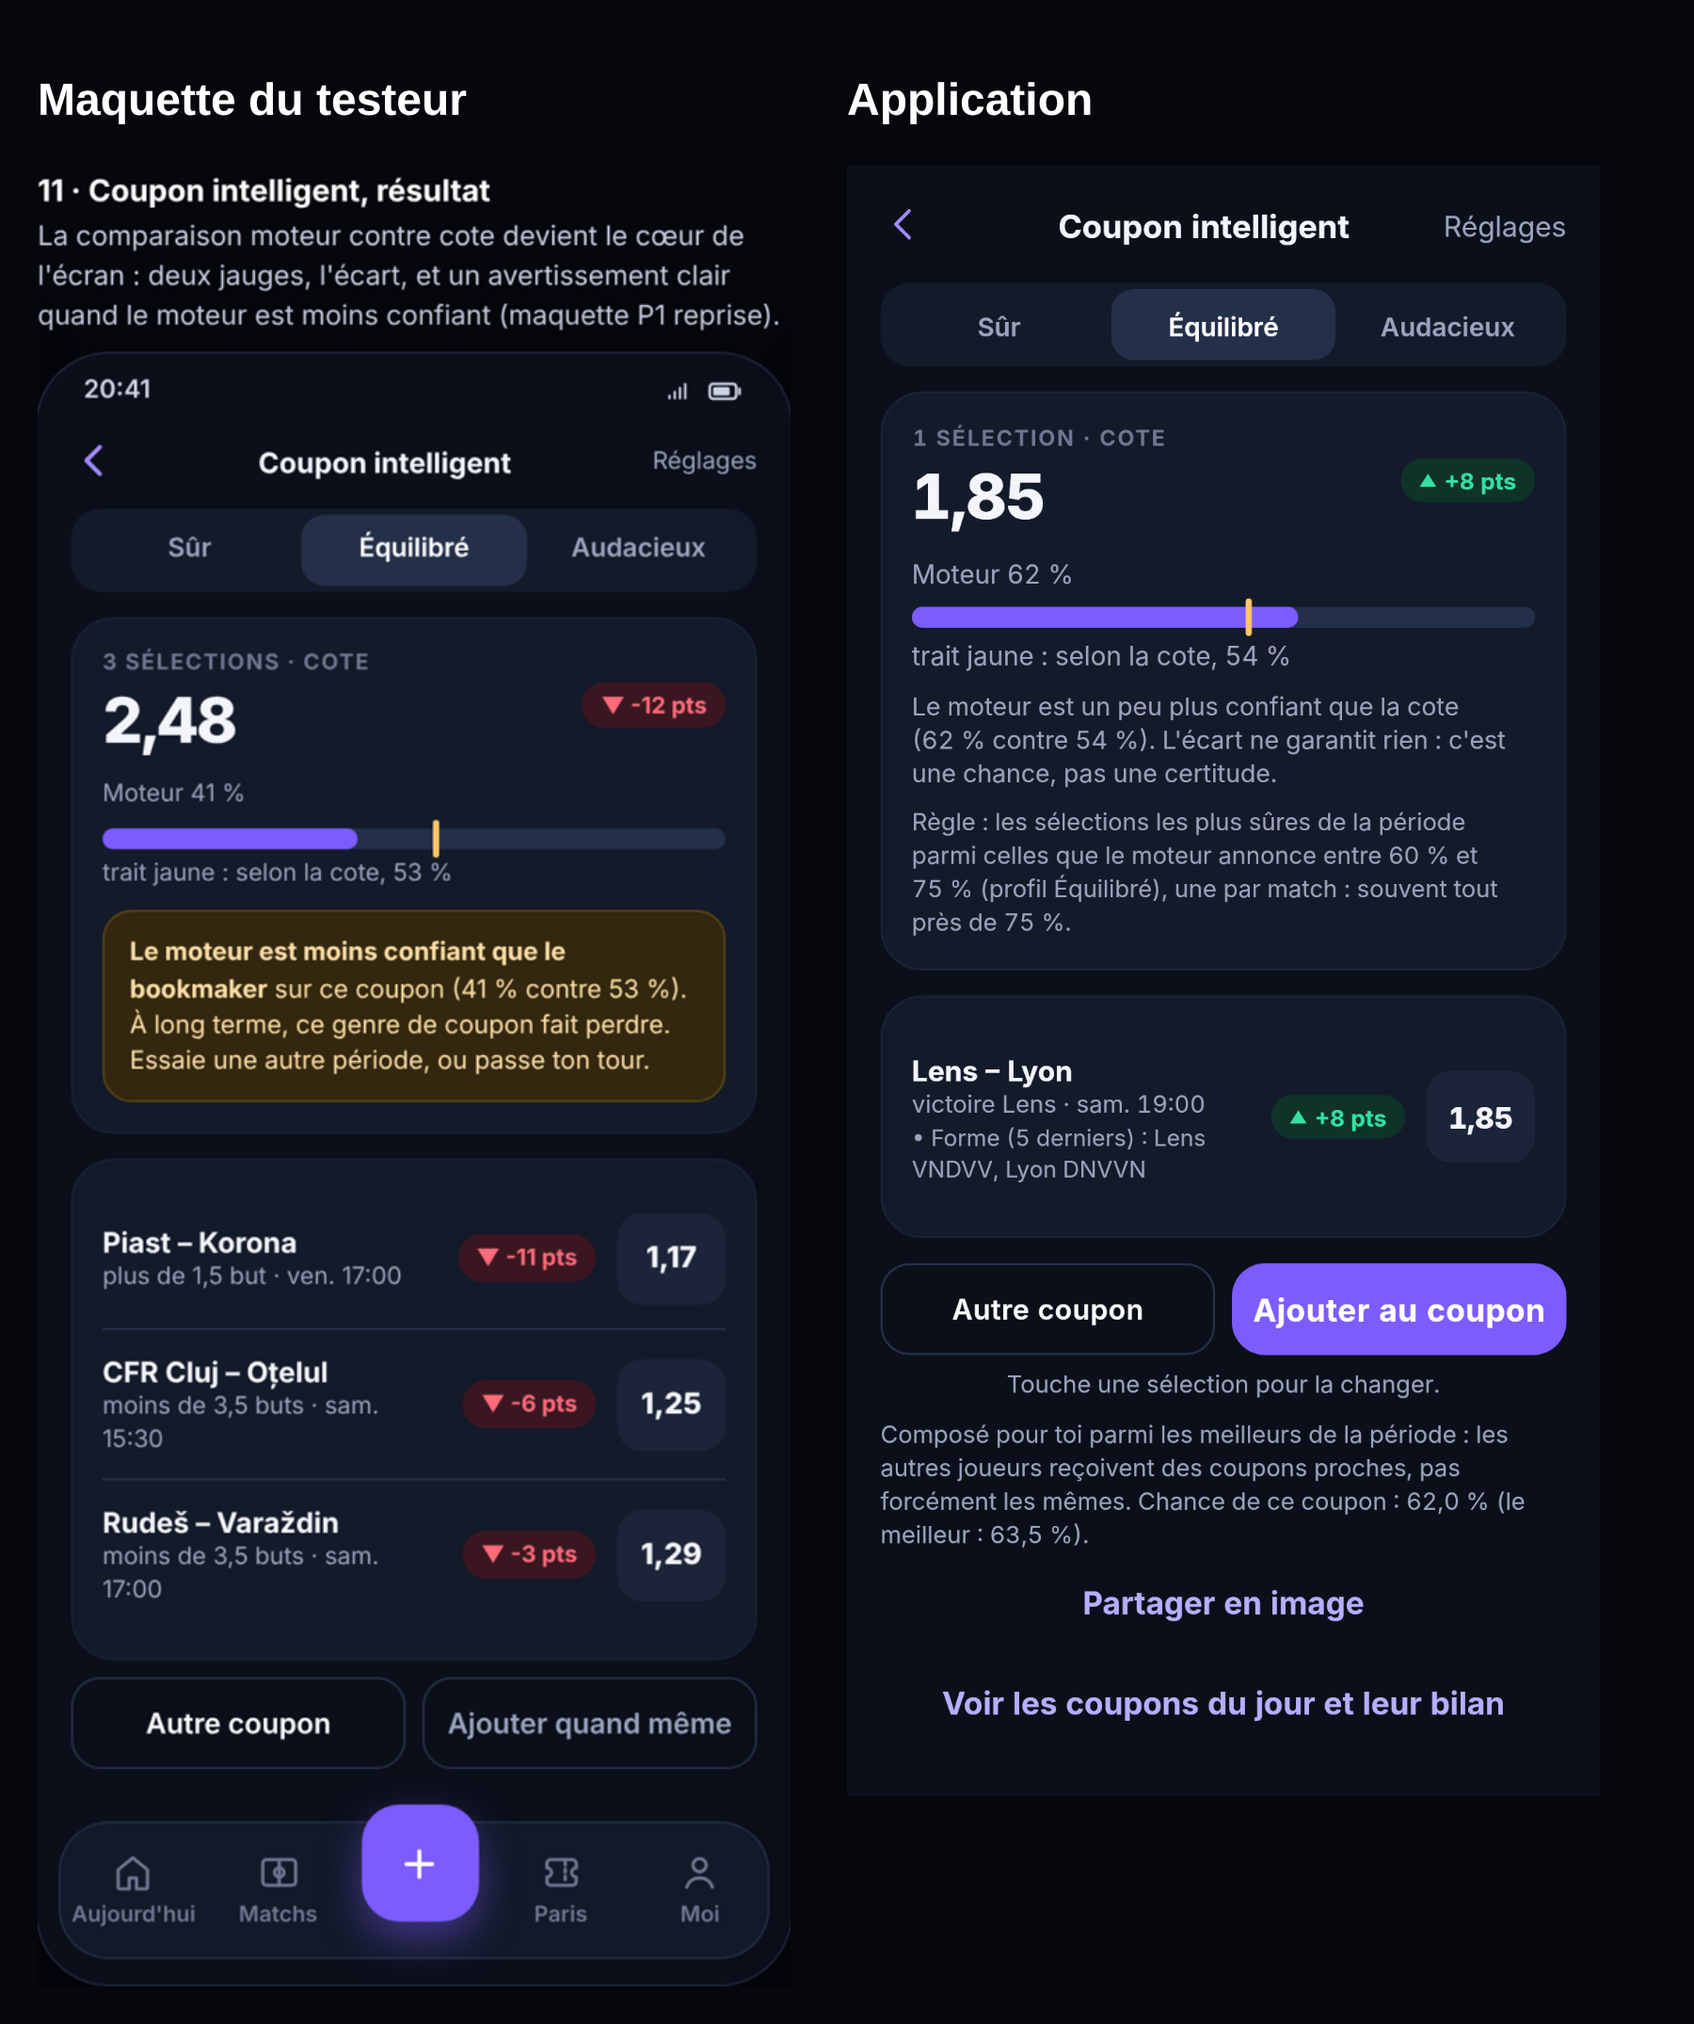
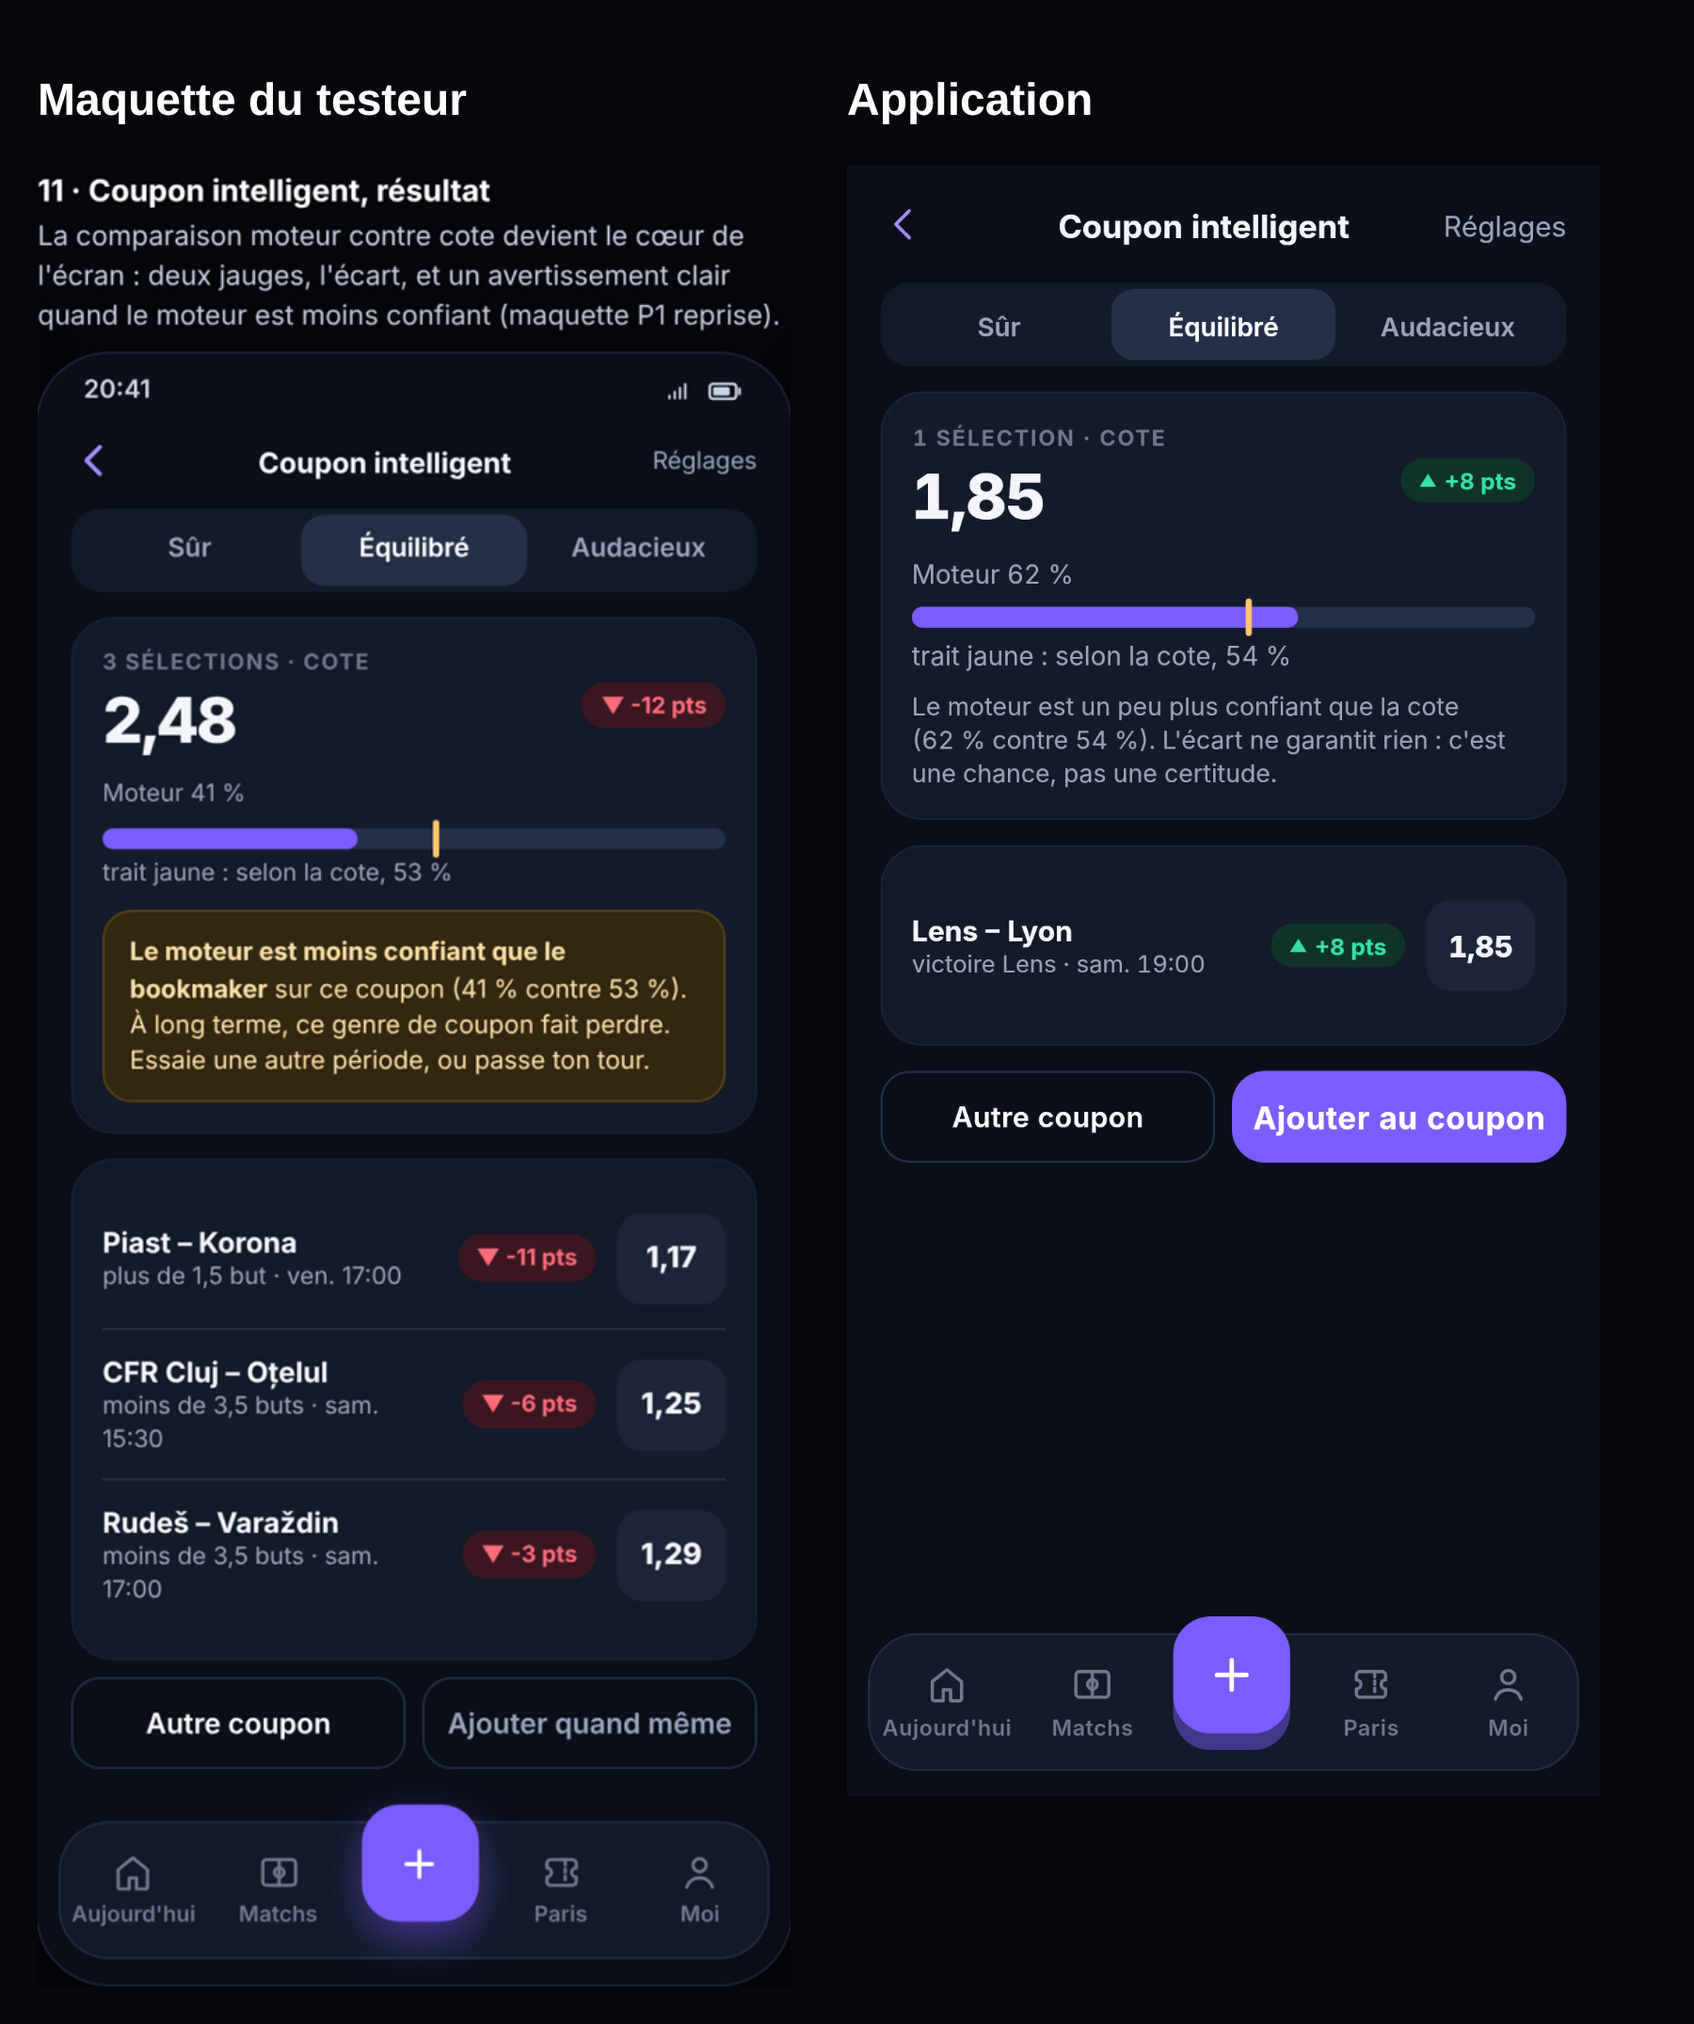
Relecture 06, 10, 11 : « +86 › » (nombre de cotes du match, nouveau GET /offers/counts), heure seule sur les cartes, Coupon intelligent sans textes en trop
Claude-Session: https://claude.ai/code/session_01D1BNdygW426Eq3G75yyrXh

diff --git a/app/lib/screens/smart_coupon_screen.dart b/app/lib/screens/smart_coupon_screen.dart
@@ -928,7 +928,9 @@ class _SmartCouponScreenState extends State<SmartCouponScreen> {
                     style: V.t(12, color: const Color(0xFFFFE0A8)).copyWith(height: 1.45),
                   ),
                 ),
-              if (_rule(result!) case final r?) ...[const SizedBox(height: 8), Text(r, style: V.mu_())],
+              // Grosse cote (hors maquette 11) : la règle du coupon reste dite.
+              if (_big)
+                if (_rule(result!) case final r?) ...[const SizedBox(height: 8), Text(r, style: V.mu_())],
               // Grosse cote : la vérité sur la chance, et le risque des marges multipliées.
               if (_big && p > 0) ...[
                 const SizedBox(height: 8),
@@ -976,9 +978,6 @@ class _SmartCouponScreenState extends State<SmartCouponScreen> {
                               ].join(' · '),
                               style: V.mu_(),
                             ),
-                            // Pourquoi ce choix, en une ligne par raison (forme, absences…).
-                            for (final r in ((s['reasons'] as List?) ?? const []).cast<String>())
-                              Text('• $r', style: V.mu_(11)),
                           ],
                         ),
                       ),
@@ -1020,25 +1019,25 @@ class _SmartCouponScreenState extends State<SmartCouponScreen> {
           ),
         ),
         if (composing) const SlowWait(),
-        const SizedBox(height: 6),
-        Text('Touche une sélection pour la changer.', textAlign: TextAlign.center, style: V.mu_()),
-        const SizedBox(height: 8),
-        // Proposition du 07/11/2026 : pas le même coupon pour tous ; le joueur le sait.
-        Text(
-          [
-            'Composé pour toi parmi les meilleurs de la période : les autres joueurs reçoivent des '
-                'coupons proches, pas forcément les mêmes.',
-            if (coupon['best_probability'] case final num b when b - p >= 0.0005)
-              'Chance de ce coupon : ${percent(p, decimals: 1)} (le meilleur : ${percent(b.toDouble(), decimals: 1)}).',
-          ].join(' '),
-          style: V.mu_(),
-        ),
-        Center(
-          child: TextButton(
-            onPressed: () => shareCoupon(context, sels, coupon, label, big: _big),
-            child: const Text('Partager en image'),
+        // Grosse cote (hors maquette 11) : coupon tiré pour ce joueur, dit ; partage en image.
+        if (_big) ...[
+          const SizedBox(height: 8),
+          Text(
+            [
+              'Composé pour toi parmi les meilleurs de la période : les autres joueurs reçoivent des '
+                  'coupons proches, pas forcément les mêmes.',
+              if (coupon['best_probability'] case final num b when b - p >= 0.0005)
+                'Chance de ce coupon : ${percent(p, decimals: 1)} (le meilleur : ${percent(b.toDouble(), decimals: 1)}).',
+            ].join(' '),
+            style: V.mu_(),
           ),
-        ),
+          Center(
+            child: TextButton(
+              onPressed: () => shareCoupon(context, sels, coupon, label, big: _big),
+              child: const Text('Partager en image'),
+            ),
+          ),
+        ],
         if (result2 != null || error2 != null)
           _Engine2Coupon(
             result: result2,
@@ -1047,16 +1046,6 @@ class _SmartCouponScreenState extends State<SmartCouponScreen> {
             adding: adding,
             onAdd: busy ? null : (s) => _addToCoupon(s, engine: 2),
           ),
-        Center(
-          child: Tooltip(
-            message: 'Coupons du jour',
-            child: TextButton(
-              onPressed: () =>
-                  Navigator.of(context).push(MaterialPageRoute(builder: (_) => const DailyCouponsScreen())),
-              child: const Text('Voir les coupons du jour et leur bilan'),
-            ),
-          ),
-        ),
         if (alternatives.isNotEmpty) ...[
           const SizedBox(height: 10),
           const VKicker('Autres choix (moins sûrs)'),

diff --git a/app/lib/screens/matches_screen.dart b/app/lib/screens/matches_screen.dart
@@ -292,6 +292,9 @@ class _CompactList extends StatefulWidget {
 
 class _CompactListState extends State<_CompactList> {
   Map<int, Map<String, Offer>> offers = {};
+
+  /// Cotes en plus de 1, N, 2 par match (« +86 › », maquette 6).
+  Map<int, int> counts = {};
   String _loaded = '';
   bool loading = true;
 
@@ -374,14 +377,19 @@ class _CompactListState extends State<_CompactList> {
     }
     setState(() => loading = true);
     try {
-      final j = await context.read<AppState>().api.get('/offers/main', {'match_ids': ids}) as Json;
+      final api = context.read<AppState>().api;
+      final (j, c) = await (
+        api.get('/offers/main', {'match_ids': ids}),
+        api.get('/offers/counts', {'match_ids': ids}).catchError((Object _) => <String, dynamic>{}),
+      ).wait;
       if (!mounted || sig != _loaded) return;
-      setState(
-        () => offers = {
-          for (final e in j.entries)
+      setState(() {
+        offers = {
+          for (final e in (j as Json).entries)
             int.parse(e.key): {for (final o in (e.value as List).cast<Json>()) Offer(o).key: Offer(o)},
-        },
-      );
+        };
+        counts = {for (final e in (c as Json).entries) int.parse(e.key): (e.value as num).toInt()};
+      });
     } on Object {
       // Cotes indisponibles : seules les chances sont affichées.
     } finally {
@@ -403,6 +411,7 @@ class _CompactListState extends State<_CompactList> {
         _MatchCard(
           u,
           offers[u.match.id] ?? const {},
+          more: counts[u.match.id],
           loading: loading,
           summary: _summary(u.match.id),
           chances: _chances(u.match.id),
@@ -448,19 +457,11 @@ String liveFacts(Json? summary, MatchInfo m) {
   return items.map((i) => i.$2).join(' · ');
 }
 
-/// « Aujourd'hui », « Demain », « Lun. 9 ».
-String _dayLabel(DateTime d) {
-  final now = DateTime.now();
-  final day = DateTime(d.year, d.month, d.day);
-  final today = DateTime(now.year, now.month, now.day);
-  final diff = day.difference(today).inDays;
-  return diff == 0 ? 'Aujourd\'hui' : (diff == 1 ? 'Demain' : dayChip(day));
-}
-
 class _MatchCard extends StatelessWidget {
   const _MatchCard(
     this.u,
     this.offers, {
+    this.more,
     this.loading = false,
     this.summary,
     this.chances,
@@ -468,6 +469,9 @@ class _MatchCard extends StatelessWidget {
   });
   final Upcoming u;
   final Map<String, Offer> offers;
+
+  /// Nombre de cotes en plus de 1, N, 2 (null : inconnu).
+  final int? more;
   final bool loading;
 
   /// En direct : buts et cartons rouges (`/live/summary`), chances du moment (si publiées).
@@ -570,7 +574,7 @@ class _MatchCard extends StatelessWidget {
         ? 'COUP D\'ENVOI IMMINENT'
         : m.kickoffDelayed
         ? 'RETARDÉ'
-        : '${_dayLabel((m.kickoffAt ?? m.date).toLocal()) == 'Aujourd\'hui' ? '' : '${_dayLabel((m.kickoffAt ?? m.date).toLocal()).toUpperCase()} '}${m.when}';
+        : m.when; // le jour est dans la pastille choisie (maquette 6 : « LIGA · 20:00 »)
     Widget team(Team t, double? p, double top) => Padding(
       padding: EdgeInsets.only(top: top),
       child: Row(
@@ -648,7 +652,7 @@ class _MatchCard extends StatelessWidget {
                       ),
                   ],
                   const Spacer(),
-                  VLink('Toutes les cotes ›', onTap: open),
+                  VLink(more == null ? 'Toutes les cotes ›' : '+$more ›', onTap: open),
                 ],
               ),
             )

diff --git a/app/test/app_test.dart b/app/test/app_test.dart
@@ -522,6 +522,8 @@ class FakeServer {
           ],
           'season': {'home': avg(), 'away': avg()},
         };
+      case 'GET /offers/counts':
+        body = {'7': 86};
       case 'GET /offers/main':
         expect(r.url.queryParametersAll['match_ids'], ['7']);
         body = {
@@ -1413,6 +1415,8 @@ void main() {
 
   testWidgets('match : marchés Premium signalés, cote ajoutée au coupon, pari placé', (tester) async {
     final (state, server) = await startApp(tester, loggedIn: true);
+    // Maquette 6 : nombre de cotes en plus de 1, N, 2 sur la carte du match.
+    expect(find.text('+86'), findsOneWidget);
     await tester.tap(find.text('Lens').first);
     await tester.pumpAndSettle();
     expect(find.text('RÉSULTAT DU MATCH'), findsOneWidget);
@@ -1736,7 +1740,7 @@ void main() {
     await tester.binding.setSurfaceSize(const Size(430, 2400));
     await tab(tester, HomeTab.paris);
     await tester.pumpAndSettle();
-    await tester.tap(find.text('Mon bilan ›'));
+    await tester.tap(find.text('Mon bilan'));
     await tester.pumpAndSettle();
     expect(find.text(signedMoney(3000)), findsOneWidget);
     expect(
@@ -2558,7 +2562,8 @@ void main() {
     expect(server.smartQueries.single, {'profile': 'equilibre', 'period': 'weekend', 'size': '3'});
     expect(find.textContaining('victoire Lens'), findsOneWidget); // maquette 11
     expect(find.text('1 SÉLECTION · COTE'), findsOneWidget);
-    expect(find.text('• Forme (5 derniers) : Lens VNDVV, Lyon DNVVN'), findsOneWidget);
+    // Maquette 11 : pas de raisons sous les sélections.
+    expect(find.text('• Forme (5 derniers) : Lens VNDVV, Lyon DNVVN'), findsNothing);
     // Maquette P1 : moteur et cote côte à côte (62 % contre 54 %), sans promesse.
     expect(find.textContaining('trait jaune : selon la cote'), findsOneWidget);
     expect(find.textContaining('Le moteur est un peu plus confiant que la cote'), findsOneWidget);
@@ -2573,13 +2578,11 @@ void main() {
     messengerKey.currentState!.removeCurrentSnackBar();
     await tester.pumpAndSettle();
 
-    await tester.scrollUntilVisible(
-      find.byTooltip('Coupons du jour'),
-      300,
-      scrollable: find.byType(Scrollable).first,
-    );
-    await tester.pumpAndSettle();
-    await tester.tap(find.byTooltip('Coupons du jour'));
+    // Les coupons du jour s'ouvrent depuis « Créer » (maquette 10).
+    Navigator.of(
+      tester.element(find.byType(Scaffold).last),
+      rootNavigator: true,
+    ).push(MaterialPageRoute(builder: (_) => const DailyCouponsScreen()));
     await tester.pumpAndSettle();
     await tester.scrollUntilVisible(
       find.byTooltip('Historique complet'),

diff --git a/app/lib/widgets/visage.dart b/app/lib/widgets/visage.dart
@@ -159,10 +159,26 @@ class VLink extends StatelessWidget {
     onTap: onTap,
     child: Padding(
       padding: const EdgeInsets.symmetric(vertical: 4),
-      child: Text(
-        text,
-        style: V.t(13.5, w: FontWeight.w600, color: V.vi2),
-      ),
+      // « › » final dessiné : la police de l'application n'a pas ce signe (« +86 › », maquette 6).
+      child: text.endsWith(' ›')
+          ? Row(
+              mainAxisSize: MainAxisSize.min,
+              children: [
+                Text(
+                  text.substring(0, text.length - 2),
+                  style: V.t(13.5, w: FontWeight.w600, color: V.vi2),
+                ),
+                const SizedBox(width: 3),
+                Transform.flip(
+                  flipX: true,
+                  child: const VIc(VIcon.back, size: 13, color: V.vi2, stroke: 2.2),
+                ),
+              ],
+            )
+          : Text(
+              text,
+              style: V.t(13.5, w: FontWeight.w600, color: V.vi2),
+            ),
     ),
   );
 }

diff --git a/backend/src/footprono/api/v1/bets.py b/backend/src/footprono/api/v1/bets.py
@@ -70,6 +70,28 @@ async def main_offers(
     return out
 
 
+@router.get("/offers/counts", response_model=dict[int, int])
+async def offer_counts(
+    session: SessionDep,
+    user: OptionalUserDep,
+    match_ids: Annotated[list[int], Query(max_length=MAX_MAIN_MATCHES)],
+) -> dict[int, int]:
+    """Nombre de cotes jouables de chaque match en plus des trois du résultat (1, N, 2) :
+    le « +86 » des cartes de la liste des matchs (maquette 6). Un match sans cote est absent."""
+    ids = list(dict.fromkeys(match_ids))
+    offers, _ = await service.cached_offers_and_probabilities(session, ids)
+    out: dict[int, int] = {}
+    for match_id in ids:
+        n = sum(
+            1
+            for k, o in offers.get(match_id, {}).items()
+            if k not in MAIN_KEYS[:3] and market_allowed(user, o.market)
+        )
+        if n:
+            out[match_id] = n
+    return out
+
+
 def _offer_out(o: service.Offer, p: float | None, first: Any = None) -> OfferOut:
     return OfferOut(
         market=o.market,

diff --git a/backend/tests/test_bets.py b/backend/tests/test_bets.py
@@ -110,6 +110,15 @@ async def test_main_offers_for_match_table(world: dict[str, Any], client: AsyncC
     assert too_many.status_code == 422
 
 
+async def test_offer_counts_for_match_cards(world: dict[str, Any], client: AsyncClient) -> None:
+    """« +N » des cartes de matchs : cotes jouables en plus de 1, N, 2 (comme la fiche)."""
+    r = await client.get("/api/v1/offers/counts", params={"match_ids": [world["m1"], 999999]})
+    assert r.status_code == 200, r.text
+    full = (await client.get(f"/api/v1/matches/{world['m1']}/offer")).json()
+    extra = [o for o in full if o["market"] != "1X2"]
+    assert r.json() == {str(world["m1"]): len(extra)}
+
+
 async def test_place_single_and_combo(
     world: dict[str, Any], client: AsyncClient, db_factory: Factory
 ) -> None:
